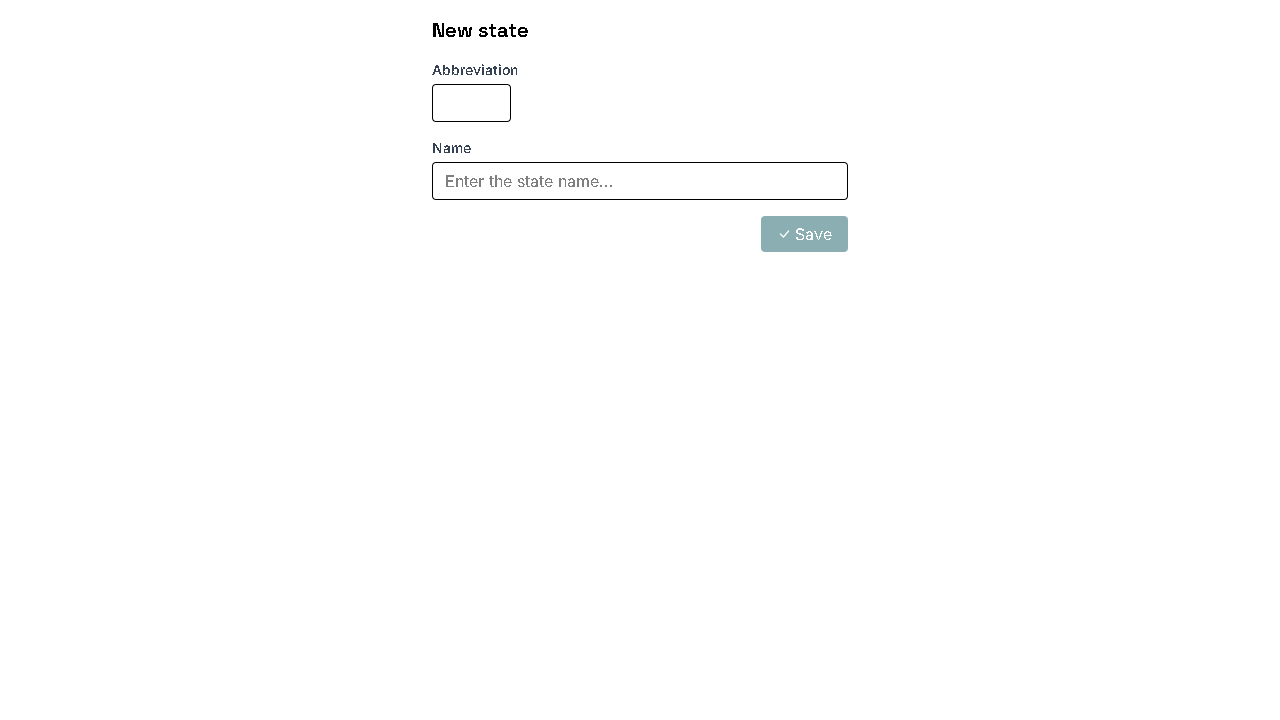
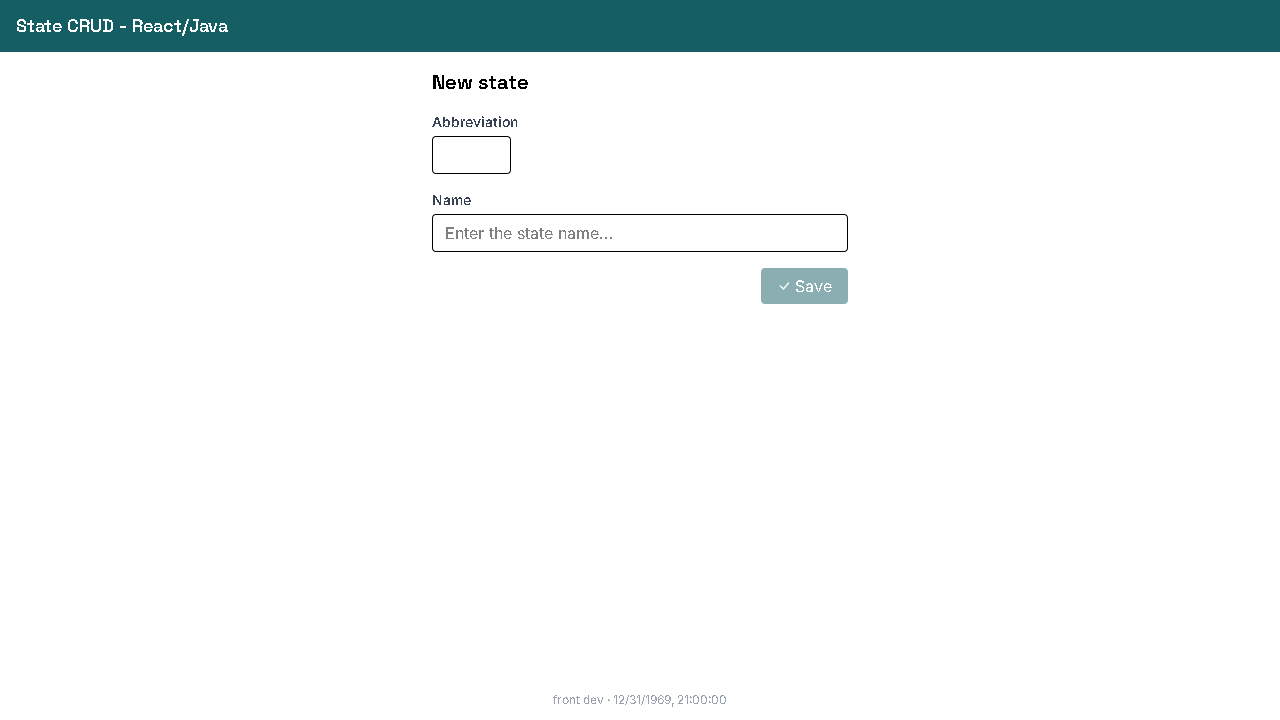
docs(readme): drop the broken Deploy-with-Vercel button, refresh docs
vercel.json rewrites /api/* to this project's own backend, so a clone
deployed by someone else would render but have every API call fail -
the button promised a working deploy it couldn't provide.

Also update the screenshots (now showing the title bar and version
footer) and the Structure section (Layout/, Footer/, the version
hooks/service, and scripts/generate-version.mjs), all added since the
screenshots were last taken.

diff --git a/README.md b/README.md
@@ -8,8 +8,6 @@
 CRUD for Brazilian federative units (states) — abbreviation, name, and
 created/updated timestamps — consuming a REST API at `/api/estado`.
 
-[![Deploy with Vercel](https://vercel.com/button)](https://vercel.com/new/clone?repository-url=https://github.com/ronybrand/react_state)
-
 ## Screenshots
 
 <img src="docs/screenshot-state-list.png" alt="States list" width="500" />
@@ -32,16 +30,23 @@ created/updated timestamps — consuming a REST API at `/api/estado`.
 src/
 ├── pages/               # StateList, CreateState, EditState (routes)
 ├── shared/
-│   ├── StateForm/         # create/edit form (React Hook Form)
-│   ├── ErrorMessage/       # error alert (role="alert") + useErrorMessage hook
-│   ├── Spinner/              # loading indicator (role="status")
-│   ├── Icon/                  # SVG icons centralized by name
-│   └── RouteError/             # render-error fallback per route
-├── hooks/                # TanStack Query hooks (list, get, create, update, delete)
+│   ├── Layout/             # app shell: title bar + <Outlet/> + Footer
+│   ├── Footer/              # FE/BE build info, hides silently on failure
+│   ├── StateForm/            # create/edit form (React Hook Form)
+│   ├── ErrorMessage/          # error alert (role="alert") + useErrorMessage hook
+│   ├── Spinner/                 # loading indicator (role="status")
+│   ├── Icon/                     # SVG icons centralized by name
+│   └── RouteError/                # render-error fallback per route
+├── hooks/                # TanStack Query hooks (list, get, create, update, delete,
+│                            frontend/backend version for the footer)
 ├── lib/                  # httpClient (axios + interceptors), error extractors, formatDate
-├── interfaces/           # State / NewState domain types
-├── services/             # stateService (HTTP calls) + stateApiMapper (wire <-> domain)
-└── router.tsx              # routes with lazy loading
+├── interfaces/           # State / NewState / FrontendVersion / BackendInfo domain types
+├── services/             # stateService + stateApiMapper (wire <-> domain), infoService
+└── router.tsx              # routes with lazy loading, wrapped in Layout
+
+scripts/
+└── generate-version.mjs  # writes public/version.json (commit + build date) on build,
+                             read by the footer to show the deployed frontend version
 ```
 
 ### Conventions
@@ -98,8 +103,12 @@ Live at **[react-state-flax.vercel.app](https://react-state-flax.vercel.app/)**.
 live backend, the same origin-proxy pattern used in development
 (`vite.config.ts`) — the browser only ever talks to the deployment's own
 origin, so it avoids CORS entirely (the backend only allows its own
-CloudFront origin). Click "Deploy with Vercel" above, or run
-`npx vercel --prod` from a Vercel-linked checkout.
+CloudFront origin). Run `npx vercel --prod` from a Vercel-linked checkout.
+
+There's no one-click "Deploy with Vercel" button: `vercel.json` points
+`/api/*` at this project's own backend, so a clone deployed elsewhere
+would render fine but every API call would fail (that backend's CORS only
+allows its own origin).
 
 ## Lint and formatting
 
